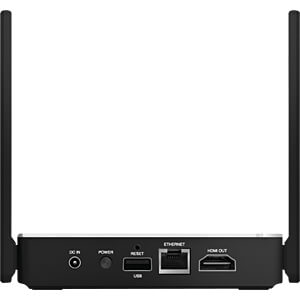
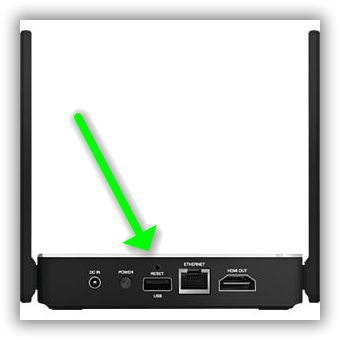
Korrektur "Firmware neu installieren"

diff --git a/src/Pro-Box-B10/firmware-reinstall.md b/src/Pro-Box-B10/firmware-reinstall.md
@@ -16,9 +16,9 @@ Sie können die EZCast Pro Box II wiederherstellen, indem Sie die Firmware neu i
 
 * Sie benötigen einen Windows Computer, um die Firmware-Software auf der EZCast Pro Box II einzuspielen.
 
-* Die Aktualisierung des Firmware-Upgrades muss mit dem mitgelieferten USB Typ C Kabel unter Microsoft Windows vorgenommen werden.
+* Die EZCast Pro Box II muss mit Ihrem Windows-PC per [USB Kabel (A/A)](https://www.amazon.de/deleyCON-Super-Speed-Kabel-Stecker/dp/B00WHZ746E/ref=sr_1_3?ie=UTF8&qid=1531928442&sr=8-3&keywords=usb+kabel+male+to+male) angeschlossen werden.
 
-![Das mitgelieferte USB Typ C Kabel](/images/USB-TypeC-Cable.jpg)
+![USB Kabel-Kabel AA ](/images/USB-Kabel-AA.jpg)
 
 # EZCast Pro Repair Tool installieren
 
@@ -37,17 +37,17 @@ Sie können die EZCast Pro Box II wiederherstellen, indem Sie die Firmware neu i
 ![Wählen Sie Installieren](/images/EZCastPro_Upgrade_Tool_Driver.Install.jpg)
 
 
-# USB Typ C Kabel anschließen
+# USB Typ A Kabel anschließen
 
 > #### primary::Hinweis
 >
-> Anfangs ist das USB Typ C Kabel **nur** mit dem USB-Anschluss der Box angeschlossen. Die Box ist ausgeschaltet. Das andere Ende des Kabels schließen Sie **nachher** mit Ihrem PC an.
+> Anfangs ist das USB Typ A Kabel **nur** mit dem USB-Anschluss der Box angeschlossen. Die Box ist ausgeschaltet. Das andere Ende des Kabels schließen Sie **nachher** mit Ihrem PC an.
 
-* Schließen Sie das mitgelieferte USB Typ C Kabel mit dem USB-Anschluss der Box an. Die Box bleibt ausgeschaltet.
 
-* Um die EZCast Pro Box II in den Update-Modus zu setzen, drücken und **halten** Sie die Reset-Taste. Schließen Sie anschließend das USB Typ C Kabel mit Ihrem Windows PC an. Nach fünf Sekunden lassen Sie die Reset-Taste los.
+* Um die EZCast Pro Box II in den Update-Modus zu setzen, schalten Sie das Gerät per die Power-Taste aus. Mit Hilfe eines kleinen "Stifts" halten Sie den Reset-Schalter gedrückt. Schalten Sie das Gerät per die Power-Taste ein, anschließend können Sie den Reset-Schalter loslassen.
 
-![EZCast Pro Box II in den Update-Modus setzen](/images/ProII-Press-Reset-Button.jpg)
+![Hier soll ein anderes Bild sein ](/images/ProII-Press-Reset-Button.jpg)
+* Schließen Sie nun das [USB Kabel (A/A)](https://www.amazon.de/deleyCON-Super-Speed-Kabel-Stecker/dp/B00WHZ746E/ref=sr_1_3?ie=UTF8&qid=1531928442&sr=8-3&keywords=usb+kabel+male+to+male) an den USB-Port des Empfängers und an einen USB-Port Ihres Rechners unter Microsoft Windows an.
 
 Wenn der Treiber richtig installiert ist und die EZCast Pro Box II angeschlossen ist, sollte das Gerät **„Realtek generic USB Device“** im Geräte-Manager erscheinen. Wenn nicht, überprüfen Sie die Treiber-Installation, Kabel-Konfiguration, und den Update-Modus, wie im vorherigen Schritt beschrieben.
 
